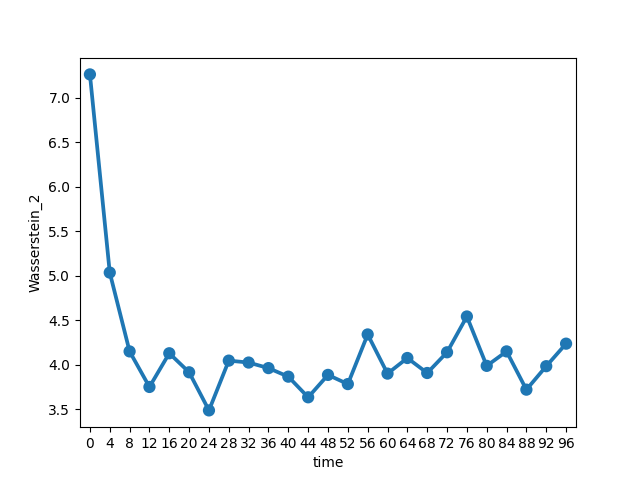
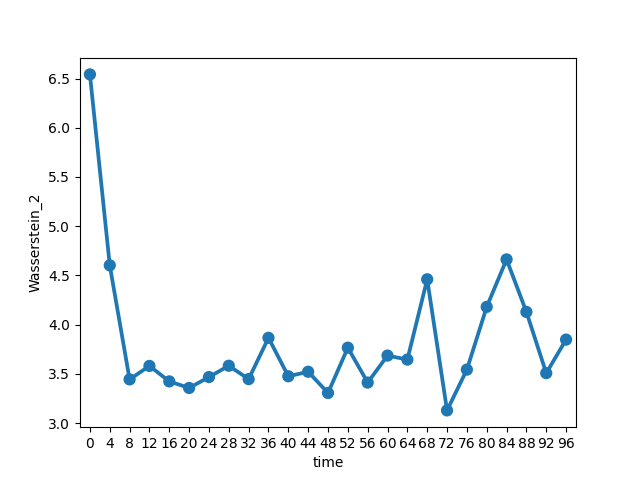
metric

diff --git a/wasserstein/stability_W.py b/wasserstein/stability_W.py
@@ -13,7 +13,7 @@ import matplotlib.pyplot as plt
 import pandas as pd
 
 np.random.seed(2021)
-ev_time = 100
+ev_time = 500
 num_obs = 1
 
 expr_folder = 'results_b'
@@ -28,8 +28,8 @@ for i in range(len(configs)):
         config_id_2 = configs[j].split('_')[1][:-5]
         data = {'time': [], 'obs_id':[], 'Wasserstein_2': []}
         for obs in range(num_obs):
-            assml_file_1 = expr_folder + '/{}_seed_{}#7/assimilation.h5'.format(config_id_1, obs)
-            assml_file_2 = expr_folder + '/{}_seed_{}#7/assimilation.h5'.format(config_id_2, obs)
+            assml_file_1 = expr_folder + '/{}_seed_{}#3/assimilation.h5'.format(config_id_1, obs)
+            assml_file_2 = expr_folder + '/{}_seed_{}#3/assimilation.h5'.format(config_id_2, obs)
             print('comparing {} vs {} for observation realization {} ...'.format(config_id_1, config_id_2, obs))
             pf_comp = cd.PFComparison(assml_file_1, assml_file_2)
             data['time'] += list(range(ev_time))

diff --git a/wasserstein/dist_plotter_W.py b/wasserstein/dist_plotter_W.py
@@ -4,13 +4,13 @@ import pandas as pd
 
 config_id_1 = 1
 config_id_2 = 2
-ev_time = 100
-dim = 20
-pf = 'bpf_10000'
-
-df = pd.read_csv('results/W_{}_vs_{}.csv'.format(config_id_1, config_id_2))
+ev_time = 500
+dim = 5
+pf = 'bpf_200_sd'
+df = pd.read_csv('results_b/W_{}_vs_{}.csv'.format(config_id_1, config_id_2))
 df = df.loc[df['time'].isin([4*i for i in range(int(ev_time/4))])]
 sns.boxplot(x=df['time'], y=df['Wasserstein_2'])
+plt.show()
 plt.savefig('dist_plots/W_{}_box_plot_{}_vs_{}_{}.png'.format(dim, config_id_1, config_id_2, pf))
 plt.clf()
 sns.pointplot(x=df['time'], y=df['Wasserstein_2'])
